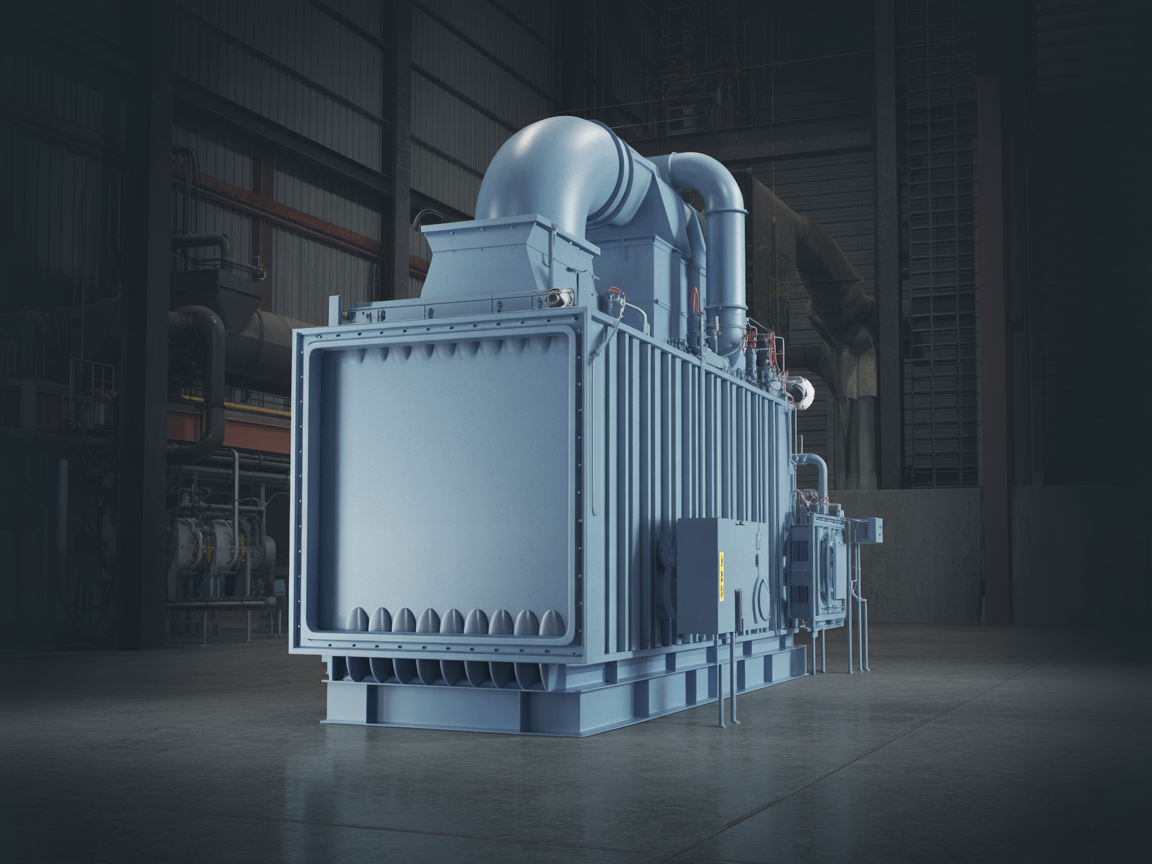
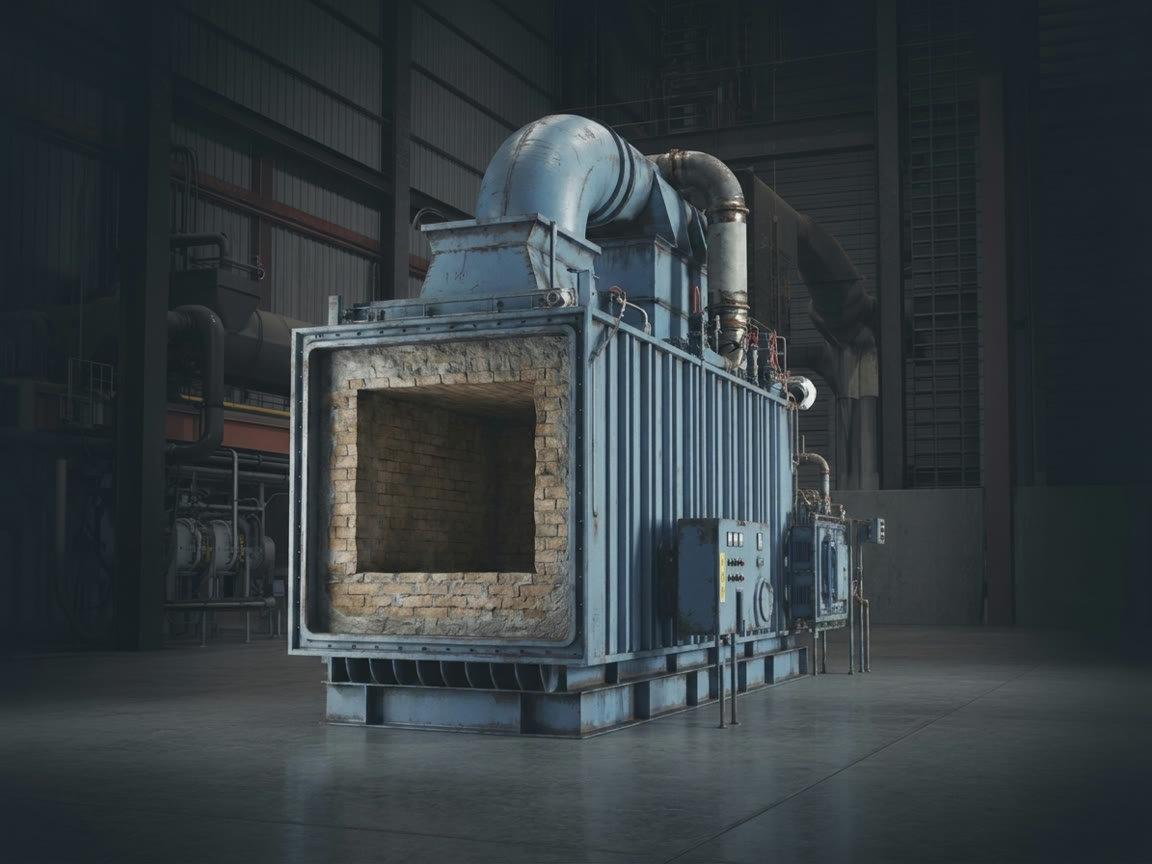
Urun ve kart gorselleri gercek foto/Higgsfield ile yenilendi; galeriye Pinsk 2024 kareleri eklendi
- pressure-vessel, process-tank: Drive'daki gercek fotograflar (Buhar Drami, Degazor)
- gas-oil-burner, hot-gas-generator, hot-water-boiler, fluidized-bed: gercek referansli nano_banana uretimi
- 10 kart/bolum gorseli gercek saha referanslariyla yeniden uretildi
- galeri (TR/EN/RU): 07-01/07-02 Pinskdrev 2024 gercek kareleri
- AI orijinalleri products-ai-yedek'e yedeklendi

Changed region(s): [[0.25, 0.125, 0.7812, 0.875]]

diff --git a/v2/ru/galeri.html b/v2/ru/galeri.html
@@ -105,6 +105,8 @@
       <figure class="hitem"><img src="../../assets/images/references/06-07-Krasnyi_Yakor.jpg" alt="Красный Якорь" loading="lazy" width="1527" height="1600"><figcaption>Красный Якорь</figcaption></figure>
       <figure class="hitem"><img src="../../assets/images/references/06-08-Hamzabey_3.jpg" alt="Hamzabey 3" loading="lazy" width="1600" height="1200"><figcaption>Hamzabey 3</figcaption></figure>
       <figure class="hitem"><img src="../../assets/images/references/06-09-Kronospan.jpg" alt="Kronospan" loading="lazy" width="1600" height="1200"><figcaption>Kronospan</figcaption></figure>
+      <figure class="hitem"><img src="../../assets/images/references/07-01-Pinskdrev_2024.jpg" alt="Пинскдрев 2024" loading="lazy" width="1200" height="1600"><figcaption>Пинскдрев, Беларусь — площадка в 2024 г.</figcaption></figure>
+      <figure class="hitem"><img src="../../assets/images/references/07-02-Pinskdrev_Pompa_2024.jpg" alt="Насосная станция Пинскдрев 2024" loading="lazy" width="1200" height="1600"><figcaption>Пинскдрев — насосная станция BERSEY (2024)</figcaption></figure>
       <figure class="hitem"><img src="../../assets/images/products/thermal-oil-1.jpg" alt="Производство термомасляного котла" loading="lazy" width="1152" height="864"><figcaption>Производство термомасляного котла</figcaption></figure>
       <figure class="hitem"><img src="../../assets/images/products/thermal-oil-2.jpg" alt="Термомасляный котёл 2" loading="lazy" width="1152" height="864"><figcaption>Термомасляный котёл 2</figcaption></figure>
       <figure class="hitem"><img src="../../assets/images/products/thermal-oil-3.jpg" alt="Термомасляный котёл 3" loading="lazy" width="1152" height="864"><figcaption>Термомасляный котёл 3</figcaption></figure>

diff --git a/v2/en/galeri.html b/v2/en/galeri.html
@@ -105,6 +105,8 @@
       <figure class="hitem"><img src="../../assets/images/references/06-07-Krasnyi_Yakor.jpg" alt="Krasnyi Yakor" loading="lazy" width="1527" height="1600"><figcaption>Krasnyi Yakor</figcaption></figure>
       <figure class="hitem"><img src="../../assets/images/references/06-08-Hamzabey_3.jpg" alt="Hamzabey 3" loading="lazy" width="1600" height="1200"><figcaption>Hamzabey 3</figcaption></figure>
       <figure class="hitem"><img src="../../assets/images/references/06-09-Kronospan.jpg" alt="Kronospan" loading="lazy" width="1600" height="1200"><figcaption>Kronospan</figcaption></figure>
+      <figure class="hitem"><img src="../../assets/images/references/07-01-Pinskdrev_2024.jpg" alt="Pinskdrev 2024 site view" loading="lazy" width="1200" height="1600"><figcaption>Pinskdrev Belarus — 2024 site view</figcaption></figure>
+      <figure class="hitem"><img src="../../assets/images/references/07-02-Pinskdrev_Pompa_2024.jpg" alt="Pinskdrev pump station 2024" loading="lazy" width="1200" height="1600"><figcaption>Pinskdrev — BERSEY pump station (2024)</figcaption></figure>
       <figure class="hitem"><img src="../../assets/images/products/thermal-oil-1.jpg" alt="Thermal oil heater production" loading="lazy" width="1152" height="864"><figcaption>Thermal oil heater production</figcaption></figure>
       <figure class="hitem"><img src="../../assets/images/products/thermal-oil-2.jpg" alt="Thermal oil 2" loading="lazy" width="1152" height="864"><figcaption>Thermal oil 2</figcaption></figure>
       <figure class="hitem"><img src="../../assets/images/products/thermal-oil-3.jpg" alt="Thermal oil 3" loading="lazy" width="1152" height="864"><figcaption>Thermal oil 3</figcaption></figure>

diff --git a/v2/galeri.html b/v2/galeri.html
@@ -105,6 +105,8 @@
       <figure class="hitem"><img src="../assets/images/references/06-07-Krasnyi_Yakor.jpg" alt="Krasnyi Yakor" loading="lazy" width="1527" height="1600"><figcaption>Krasnyi Yakor</figcaption></figure>
       <figure class="hitem"><img src="../assets/images/references/06-08-Hamzabey_3.jpg" alt="Hamzabey 3" loading="lazy" width="1600" height="1200"><figcaption>Hamzabey 3</figcaption></figure>
       <figure class="hitem"><img src="../assets/images/references/06-09-Kronospan.jpg" alt="Kronospan" loading="lazy" width="1600" height="1200"><figcaption>Kronospan</figcaption></figure>
+      <figure class="hitem"><img src="../assets/images/references/07-01-Pinskdrev_2024.jpg" alt="Pinskdrev 2024 modernizasyonu" loading="lazy" width="1200" height="1600"><figcaption>Pinskdrev Belarus — 2024 saha görünümü</figcaption></figure>
+      <figure class="hitem"><img src="../assets/images/references/07-02-Pinskdrev_Pompa_2024.jpg" alt="Pinskdrev pompa istasyonu 2024" loading="lazy" width="1200" height="1600"><figcaption>Pinskdrev — BERSEY pompa istasyonu (2024)</figcaption></figure>
       <figure class="hitem"><img src="../assets/images/products/thermal-oil-1.jpg" alt="Kızgın yağ kazanı üretimi" loading="lazy" width="1152" height="864"><figcaption>Kızgın yağ kazanı üretimi</figcaption></figure>
       <figure class="hitem"><img src="../assets/images/products/thermal-oil-2.jpg" alt="thermal oil 2" loading="lazy" width="1152" height="864"><figcaption>thermal oil 2</figcaption></figure>
       <figure class="hitem"><img src="../assets/images/products/thermal-oil-3.jpg" alt="thermal oil 3" loading="lazy" width="1152" height="864"><figcaption>thermal oil 3</figcaption></figure>

diff --git a/uretim-plani/is7-gercek-foto-adaylari.md b/uretim-plani/is7-gercek-foto-adaylari.md
@@ -1,0 +1,43 @@
+# İş 7 — Gerçek Foto Referansları (Drive envanterinden seçki)
+8 Ağustos 2026. Kaynak: Drive "Musteri Projeler" envanteri (2 alt-ajan taraması).
+
+## Hedef 1: Hâlâ AI olan 6 ürün görseli (assets/images/products/)
+| Dosya | Aday gerçek foto (Drive id) |
+|---|---|
+| gas-oil-burner-1.jpg | METSO **BRULOR** klasörü (33 kare): DSC01189=1uu8Qj2T4H6DtSAN5kN8-V2sMCp2aryw4, DSC01190=1UXSCpgt8gc2pQk-r3tTMD3f0XVdIovTr, DSC01191=1pz1g5SEM-bvDJJULqNIo130XErdLWSQk, DSC01192=1p05Tr1wHeceudLj25zcP_i_o8II7NXXr, DSCN1304=1y5vOVXkZo5H0XgPtdcz-g90wPazruPhV, DSCN1306=1TcaWQN11XAiRkb-auB_O8WxrNQNaiRPs |
+| heat-exchanger zaten değişti; hot-water-boiler-1.jpg | 001 kökü: Heated Water ex-changer-1.JPG=1WEL1uMBeMpjL5ICjuC3Oz9cgOBy0ImBQ · Kutahya Azot Montaj Sonu 001-016 (örn 1G-2Z22_uiZ_Rck3ARKgajIK9RT8CqINb, 1PJPE8WFVj_9ygmj2OtscHFPN6YtZ0yQJ) |
+| pressure-vessel-1.jpg | Hamzabey-M.Akdag 2022 imalat: IMG_20220611_110753=1iFX6I0RGokYZ7MDP-wiM2kk9ItIOl8Qz, 172725=1MCnEM5LQAXYNSx4ha1ogdWNc4RUlytKP, 20220617_085335=1lSbswV9IEEcYNch_zs7YBKdaKVeMIwJu serisi |
+| process-tank-1.jpg | Hamzabey serisi + KONDENSER: 20120731_141014=1DRcY9uh_iDVVPhQwvcTXqr7GbC8gl9O2 |
+| hot-gas-generator-1.jpg | ARGUS ZFK klasörü taranacak (sıcak gaz jen. adayı) + BORISOV yanma: Borisov yanma-1=1PYnCezRoNn535_nuBPQA3OkChQZ31OHh, yanma-2=1nFGrclho6QY9Z9ZHPgxXFpF6ZeFZDv__ |
+| fluidized-bed-1.jpg | Aday yok (belki ARGUS/Parfino'da) — bulunamazsa mevcut AI görseli nano_banana ile fotogerçekçi yapılacak |
+
+## Hedef 2: Kart/bölüm görselleri (AI kalan 10)
+after-sales-1, combustion-card, combustion-systems, energy-card, engineering-card,
+equipment-design-1, heat-strength-1, pipe-routing-1, process-card, process-equipment
+→ En iyi saha fotoğrafları referansıyla nano_banana yeniden üretim.
+Kaynak adaylar: FOTO SECIM (STARWOOD_BURSA_01-20, örn 1S4a-btEm0l0EY2caYM8cX7mqoPOinwpH),
+ITC 09-09-2024 (yüksek çöz., örn 20240909_111630=1w0e-W0yWXp-X42LbKvLE7IsAvk-w0wCW),
+001 kökü BERSEY_00xx seçkisi, Steam Generator-1=1vCh8zuyrBb-k9-LU5QCg6-yY48gFV6EP,
+Moving floor fuel feeder-1=1LzEQUV84SSMGGvr_mNMOjzHJ4bJvkUZG (yakıt besleme),
+2023-Konveksiyon Yenileme (boru demeti, örn 1vXfAXv6vcjDPbt8J3w9iRZIA4C6WYnlt),
+CFD-burner-1..6 (mühendislik kartı için, örn 1Ybnka0Yag061KbWmhzTZGJzzACOSpZ0x), FEA-1=17OZI5nqobtaexHvlonZtiJW0-WqEhpuK.
+
+## Hedef 3: Referans/Galeri güncellemesi
+- Kutahya Azot 002-Montaj Sonu (16 temiz bitmiş kazan karesi)
+- ITC ANKARA kök 1-8.jpg + 09-09-2024 (60, yüksek çöz.)
+- FOTO SECIM STARWOOD_BURSA (20 hazır seçilmiş)
+- HAYAT KIMYA-MISIR kök IMG_71xx (yurt dışı referans)
+- Krasniy Yakor 2023-01/02 (2MB WhatsApp kareleri, montaj)
+- TATARISTAN-MDF2=13U1CqkvwctPKicYTUo_wRHmUbPiq1IWA, KEAS-TATARISTAN-MDF1=1JZjMIZohSsmEOp1ZlJyzYnDrxIdRc_13, CAMSAN ADAPAZARI=1bJ4SaVY4LaBTmhHH07zfkL1HNWfIMxMv
+
+## Klasör id'leri (yeniden sorgu için: parentId='<id>')
+- Musteri Projeler: 1HKCPp7d_FLDXaU2aH4XTN2lbfB1m5lpm
+- Customers: 1mTSxdBajTCsrdEpEdXl9r5mGucOfj6Zs
+- BRULOR: 1g_vgatBzqGCwHlwQ73PgzPsTFM9lyFTd · FOTO SECIM: 1XYCyRi_ZDW24DPylG38Opl9J8qpADxe_
+- Hamzabey: 1J9LgGUgdzjQ_Bxsuk90rxfDo7zDgkUez · Montaj Sonu: 1oy81rjcmmR77EX403WCYCalq6VrEZXL1
+- Konveksiyon: 1J1_-5IBETpYCd9-u9c1yyagiix0_QYnW · ITC 2024: 1oayEQCSmWteNRA7lNshteE6klUFHqCre
+- Taranmamış: ARGUS ZFK=1sXhHIxlAcRvRBVxGNVsLWOjTwcZe_zP- · BORISOV=1i-7jV4tdySpw9CMMBRzrZsWWr-q_jFq1 · PINSKDREV=1quqBOH1yi4H37krfLZInhz5r0QxtQqTt · Parfino-II=14FZgH18__s9azmVzL_6fq4Jt6IgpPzXP · KEMEROVO=1apozeCCK37JK4kpEW_vUR4dIzOTvY0AL · 800-BILYAP=1w4JrV1HTo0Jn13ghI1cqbCqUo5wvT9pJ · 3000-IMALAT=1XTF-OxIpecCmzSNJySRFVOWLO-NAXB8X · 3300-VIDEOLAR=1uiDtHY_741xMU7dY7K03kT_I07YjBIri
+
+## İndirme durumu
+- Yöntem: (denenecek) Chrome eklentisiyle Drive'dan indirme; olmazsa Ali Bey'den zip.
+- Hedef klasör: Desktop\bersey-drive\yeni-secki\
